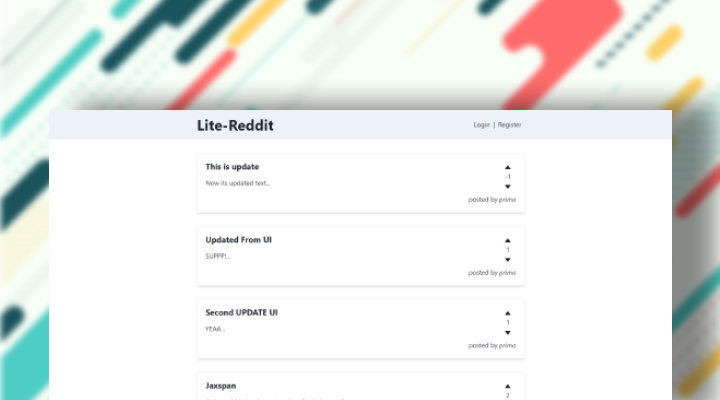
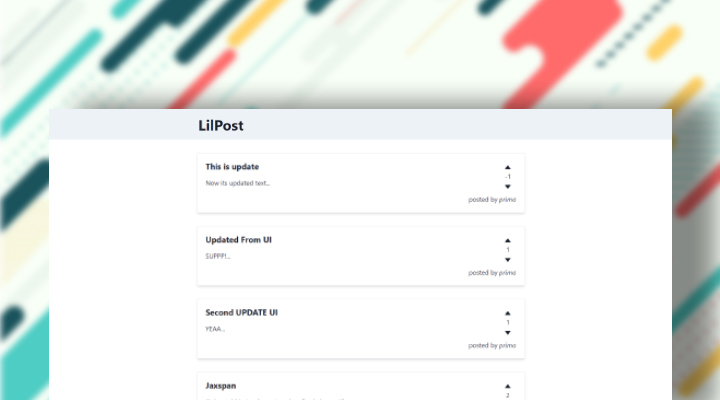
fixing me section, minor edit

Changed region(s): [[0.275, 0.27, 0.3972, 0.33], [0.6417, 0.3, 0.7333, 0.33]]

diff --git a/src/pages/portfolio/lilpost.tsx b/src/pages/portfolio/lilpost.tsx
@@ -25,7 +25,7 @@ const lilpost: React.FC<lilpostProps> = ({}) => {
       <Layout>
         <Section>
           <Box>
-            <Image src="/laravel-thumb.jpg" />
+            <Image src="/lilpost/lilpost-thumb.jpg" />
           </Box>
         </Section>
         <Box my={5}>
@@ -40,9 +40,9 @@ const lilpost: React.FC<lilpostProps> = ({}) => {
               LilPost
             </Heading>
             <Text>
-              An app for route optimization for <i>travel</i> (indonesian public
-              transport) using <i>Genetic Algorithm</i>. Made for final project
-              on my Bachelor Degree.
+              Reddit like app with simple CRUD system, built for deepen my
+              knowledge on Javascript ORM and Typescript. Using overkill stack
+              such as GraphQL to better understanding REST API.
             </Text>
 
             <Box my={5}>
@@ -57,8 +57,8 @@ const lilpost: React.FC<lilpostProps> = ({}) => {
                         Link
                       </Badge>
                     </Box>
-                    <Link href="https://www.inkdrop.app/">
-                      https://www.inkdrop.app/ <ExternalLinkIcon mx="2px" />
+                    <Link href="https://lilpost.codemaji.xyz/">
+                      Lilpost <ExternalLinkIcon mx="2px" />
                     </Link>
                   </Flex>
                 </ListItem>
@@ -72,7 +72,21 @@ const lilpost: React.FC<lilpostProps> = ({}) => {
                         Stack
                       </Badge>
                     </Box>
-                    PHP, MySQL, Laravel, Vue
+                    React, Next JS, GraphQL, Typescript
+                  </Flex>
+                  <Flex>
+                    <Box minW={"100px"}>
+                      <Badge
+                        colorScheme={useColorModeValue("teal", "purple")}
+                        mr={3}
+                      >
+                        Source
+                      </Badge>
+                    </Box>
+                    <Link href="https://github.com/primeXist/lilpost">
+                      https://github.com/primeXist/lilpost
+                      <ExternalLinkIcon mx="2px" />
+                    </Link>
                   </Flex>
                 </ListItem>
               </List>
@@ -83,9 +97,9 @@ const lilpost: React.FC<lilpostProps> = ({}) => {
               Preview
             </Heading>
             <Box>
-              <Image borderRadius="lg" my={5} src="/laravel.jpg" />
-              <Image borderRadius="lg" my={5} src="/laravel.jpg" />
-              <Image borderRadius="lg" my={5} src="/laravel.jpg" />
+              {/* <Image borderRadius="lg" my={5} src="/laravel.jpg" />
+              <Image borderRadius="lg" my={5} src="/laravel.jpg" /> */}
+              <Image borderRadius="lg" my={5} src="/lilpost/lilpost.png" />
             </Box>
           </Section>
         </Box>

diff --git a/src/pages/index.tsx b/src/pages/index.tsx
@@ -14,6 +14,7 @@ import {
 import { BsInstagram, BsLinkedin, BsTwitter } from "react-icons/bs";
 
 import { GoMarkGithub } from "react-icons/go";
+import { CgMail } from "react-icons/cg";
 import { Bio } from "../components/Bio";
 import { Hero } from "../components/Hero";
 import { Layout } from "../components/Layout";
@@ -51,12 +52,11 @@ const Index = () => (
 
       <Section>
         <Box mt={2} textAlign="justify">
-          I am an adept, passionate, and enthusiast learner. I have a high
-          passion and dedication on full-stack web development. I'm a final year
-          student in Riau University majoring on Computer Science. Currently im
-          seeking for any opportunity to leverage my javascript fullstack
-          skills, and also to improve my knowledge and experience on web
-          developement.
+          I am a final year student in Riau University majoring on Computer
+          Science. I have high interest with full-stack web development. Im
+          familiar with tech stack such as PHP, SQL, Javascript, HTML and CSS.
+          I'm seeking for any opportunity to leverage my skills, and also to
+          improve my knowledge and experience on web developement.
         </Box>
       </Section>
 
@@ -90,7 +90,7 @@ const Index = () => (
         </Heading>
 
         <Bio year="2010-2013">SMPN 32 Pekanbaru</Bio>
-        <Bio year="2010-2013">SMAN 5 Pekanbaru</Bio>
+        <Bio year="2013-2016">SMAN 5 Pekanbaru</Bio>
         <Bio year="2016 to present"> Computer Science, Universitas Riau</Bio>
       </Section>
 
@@ -98,7 +98,6 @@ const Index = () => (
         <Heading as="h1" variant={"section-title"}>
           Contacts
         </Heading>
-        <Box>Let's work together. Get in touch with me :</Box>
         <Box mt={2} textAlign="justify">
           <List>
             <ListItem>
@@ -108,7 +107,7 @@ const Index = () => (
                   colorScheme="teal"
                   leftIcon={<GoMarkGithub />}
                 >
-                  @PrimeXist
+                  PrimeXist
                 </Button>
               </Link>
             </ListItem>
@@ -135,13 +134,13 @@ const Index = () => (
               </Link>
             </ListItem>
             <ListItem>
-              <Link href="https://instagram.com/PrimaFitraa" target="_blank">
+              <Link href="mailto:primafitra.code@gmail.com" target="_blank">
                 <Button
                   variant="ghost"
                   colorScheme="teal"
-                  leftIcon={<BsInstagram />}
+                  leftIcon={<CgMail />}
                 >
-                  @PrimaFitraa
+                  primafitra.code
                 </Button>
               </Link>
             </ListItem>

diff --git a/src/components/Navbar.tsx b/src/components/Navbar.tsx
@@ -12,7 +12,8 @@ import {
   Stack,
   useColorModeValue,
 } from "@chakra-ui/react";
-import { default as LinkItem, default as NextLink } from "next/link";
+import LinkItem from "next/link";
+import NextLink from "next/link";
 import { GoMarkGithub } from "react-icons/go";
 import { DarkModeSwitch } from "./DarkModeSwitch";
 
@@ -38,9 +39,11 @@ export default function Nav() {
         >
           <Flex align={"center"} mr="5">
             <LinkItem href={"/"}>
-              <Heading as="h1" size="lg" letterSpacing={"tight"}>
-                Logo
-              </Heading>
+              <Link _hover={{ textDecoration: "none" }}>
+                <Heading as="h1" size="lg" letterSpacing={"tight"}>
+                  Logo
+                </Heading>
+              </Link>
             </LinkItem>
           </Flex>
           <Stack
@@ -51,20 +54,18 @@ export default function Nav() {
             flexGrow={1}
             mt={{ base: 4, md: 0 }}
           >
-            <LinkItem href="/#bio">
-              <Link>Bio</Link>
-            </LinkItem>
             <LinkItem href="/portfolio">
               <Link>Portfolio</Link>
             </LinkItem>
             <LinkItem href="https://github.com/primexist">
-              <Link>
+              <Link href="https://github.com/primexist">
                 <ExternalLinkIcon
                   // variant="unstyled"
                   // aria-label="github"
                   as={GoMarkGithub}
                   mr="1"
                 />
+                Source
               </Link>
             </LinkItem>
           </Stack>

diff --git a/src/pages/portfolio/stellar.tsx b/src/pages/portfolio/stellar.tsx
@@ -77,7 +77,7 @@ const stellar: React.FC<stellarProps> = ({}) => {
                         Stack
                       </Badge>
                     </Box>
-                    React, NextJS, Stellar Blockchain SDK
+                    React, Typescript, NextJS, Stellar Blockchain SDK
                   </Flex>
                 </ListItem>
                 <ListItem>
@@ -90,7 +90,7 @@ const stellar: React.FC<stellarProps> = ({}) => {
                         Source
                       </Badge>
                     </Box>
-                    <Link href="https://stellar-bulk.codemaji.xyz/">
+                    <Link href="https://github.com/primeXist/stellar-bulk">
                       https://github.com/primeXist/stellar-bulk
                       <ExternalLinkIcon mx="2px" />
                     </Link>

diff --git a/src/pages/portfolio.tsx b/src/pages/portfolio.tsx
@@ -47,7 +47,7 @@ const Portfolio: React.FC<portfolioProps> = ({}) => {
         <Section delay={0.1}>
           <PortoGridItem
             id="uag-solution"
-            thumbnail={"../travel/laravel-thumb.jpg"}
+            thumbnail={"../uag/uag-thumb.jpg"}
             title="UAG Solution"
           >
             App to diagnose and repair your broken PC/Laptop using machine
